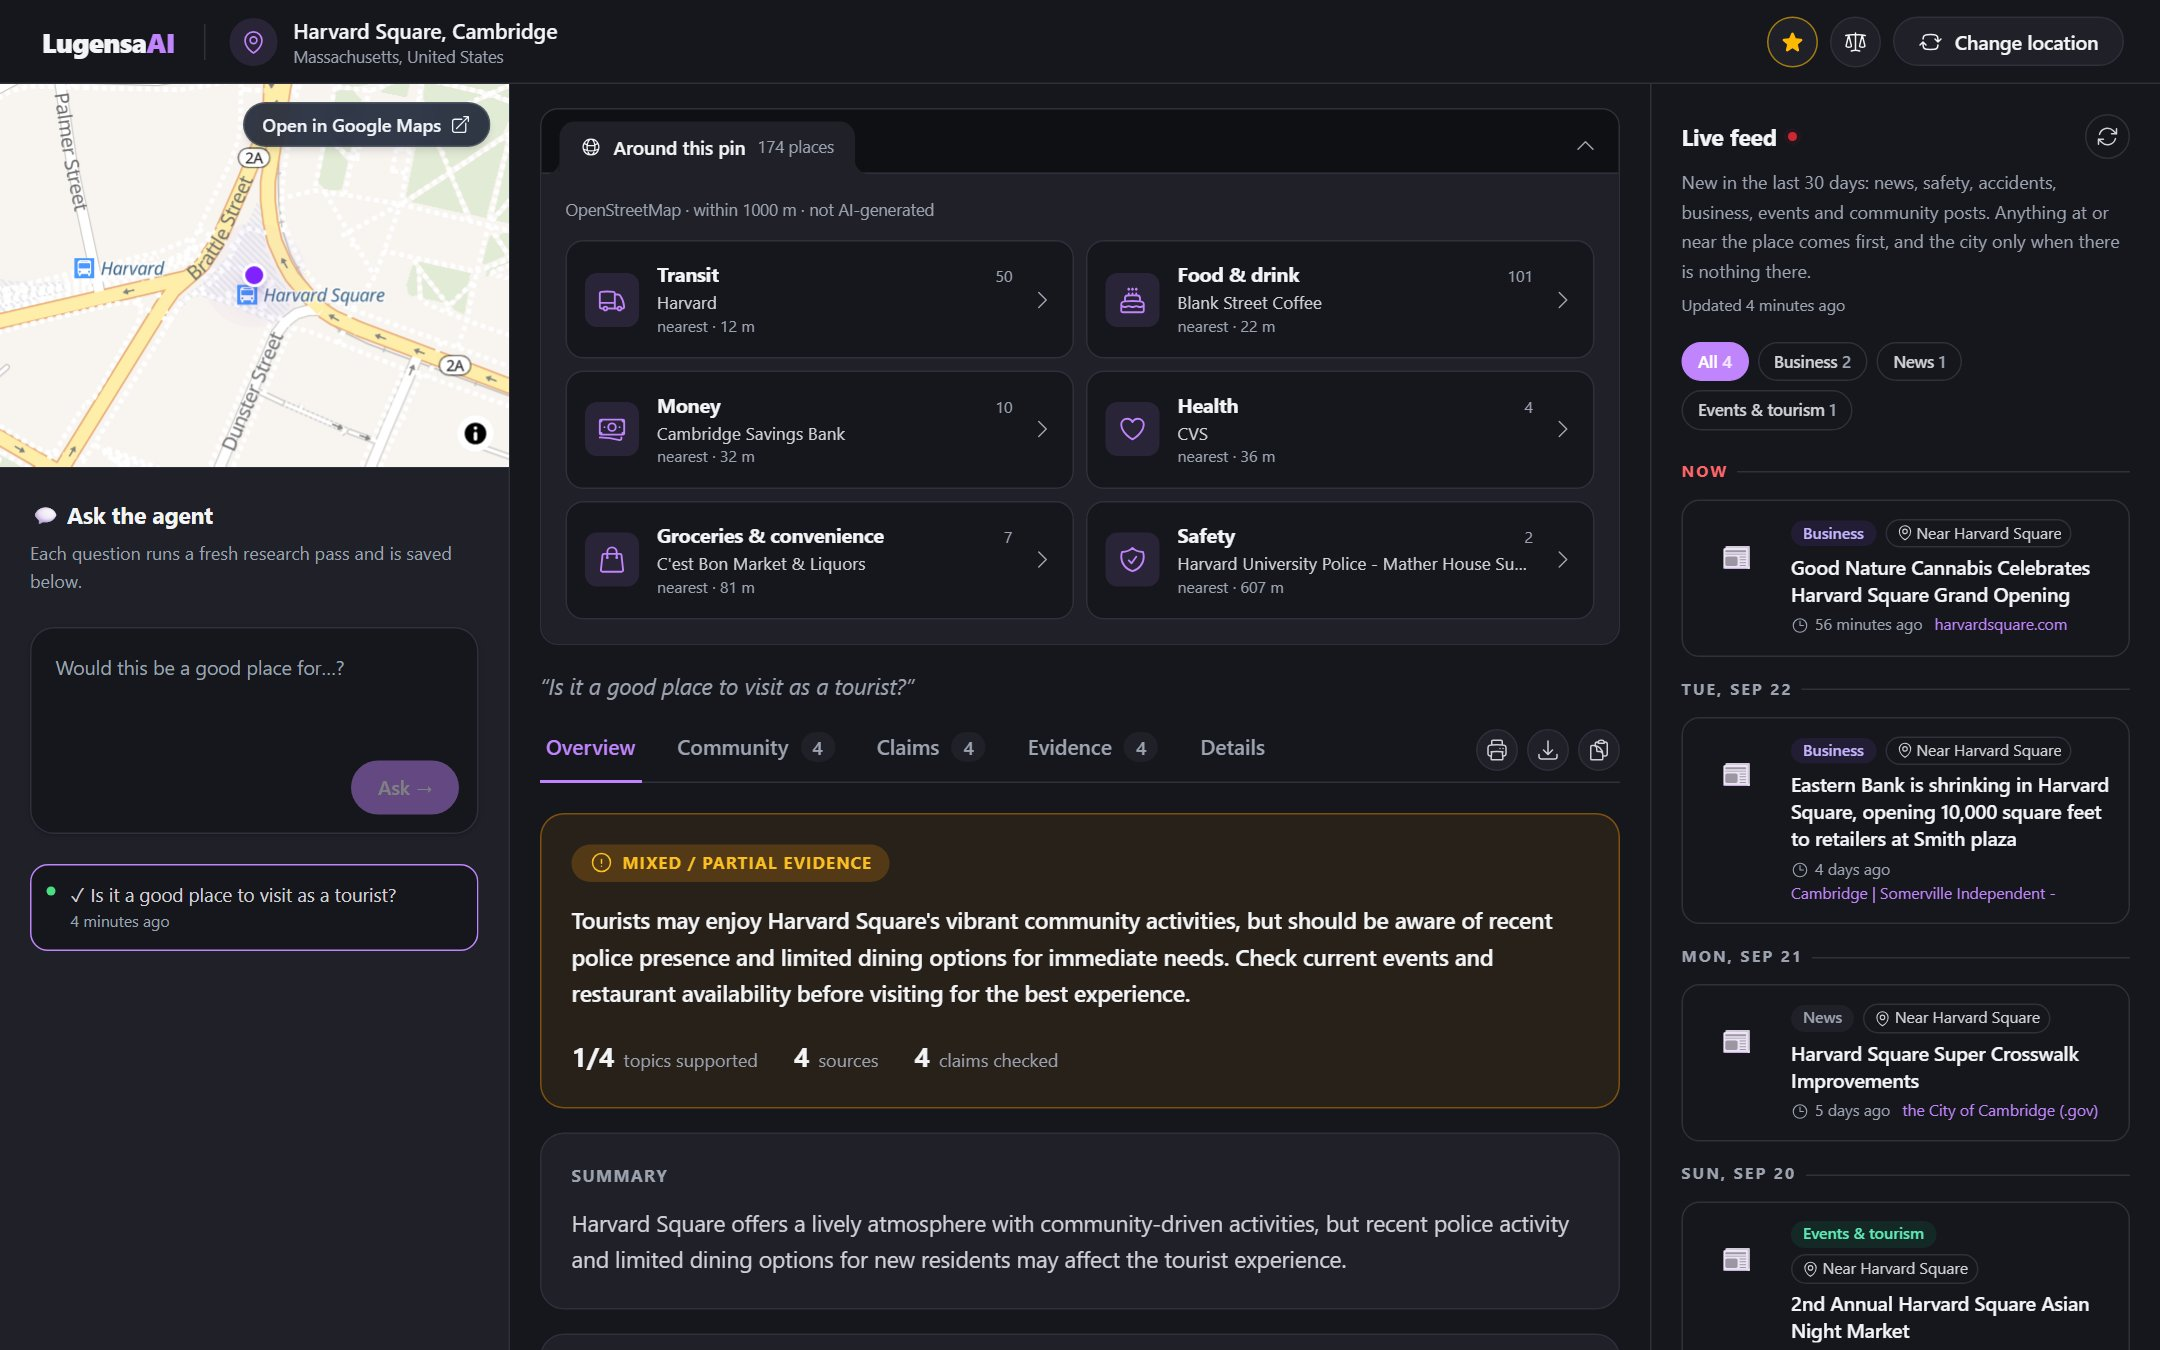
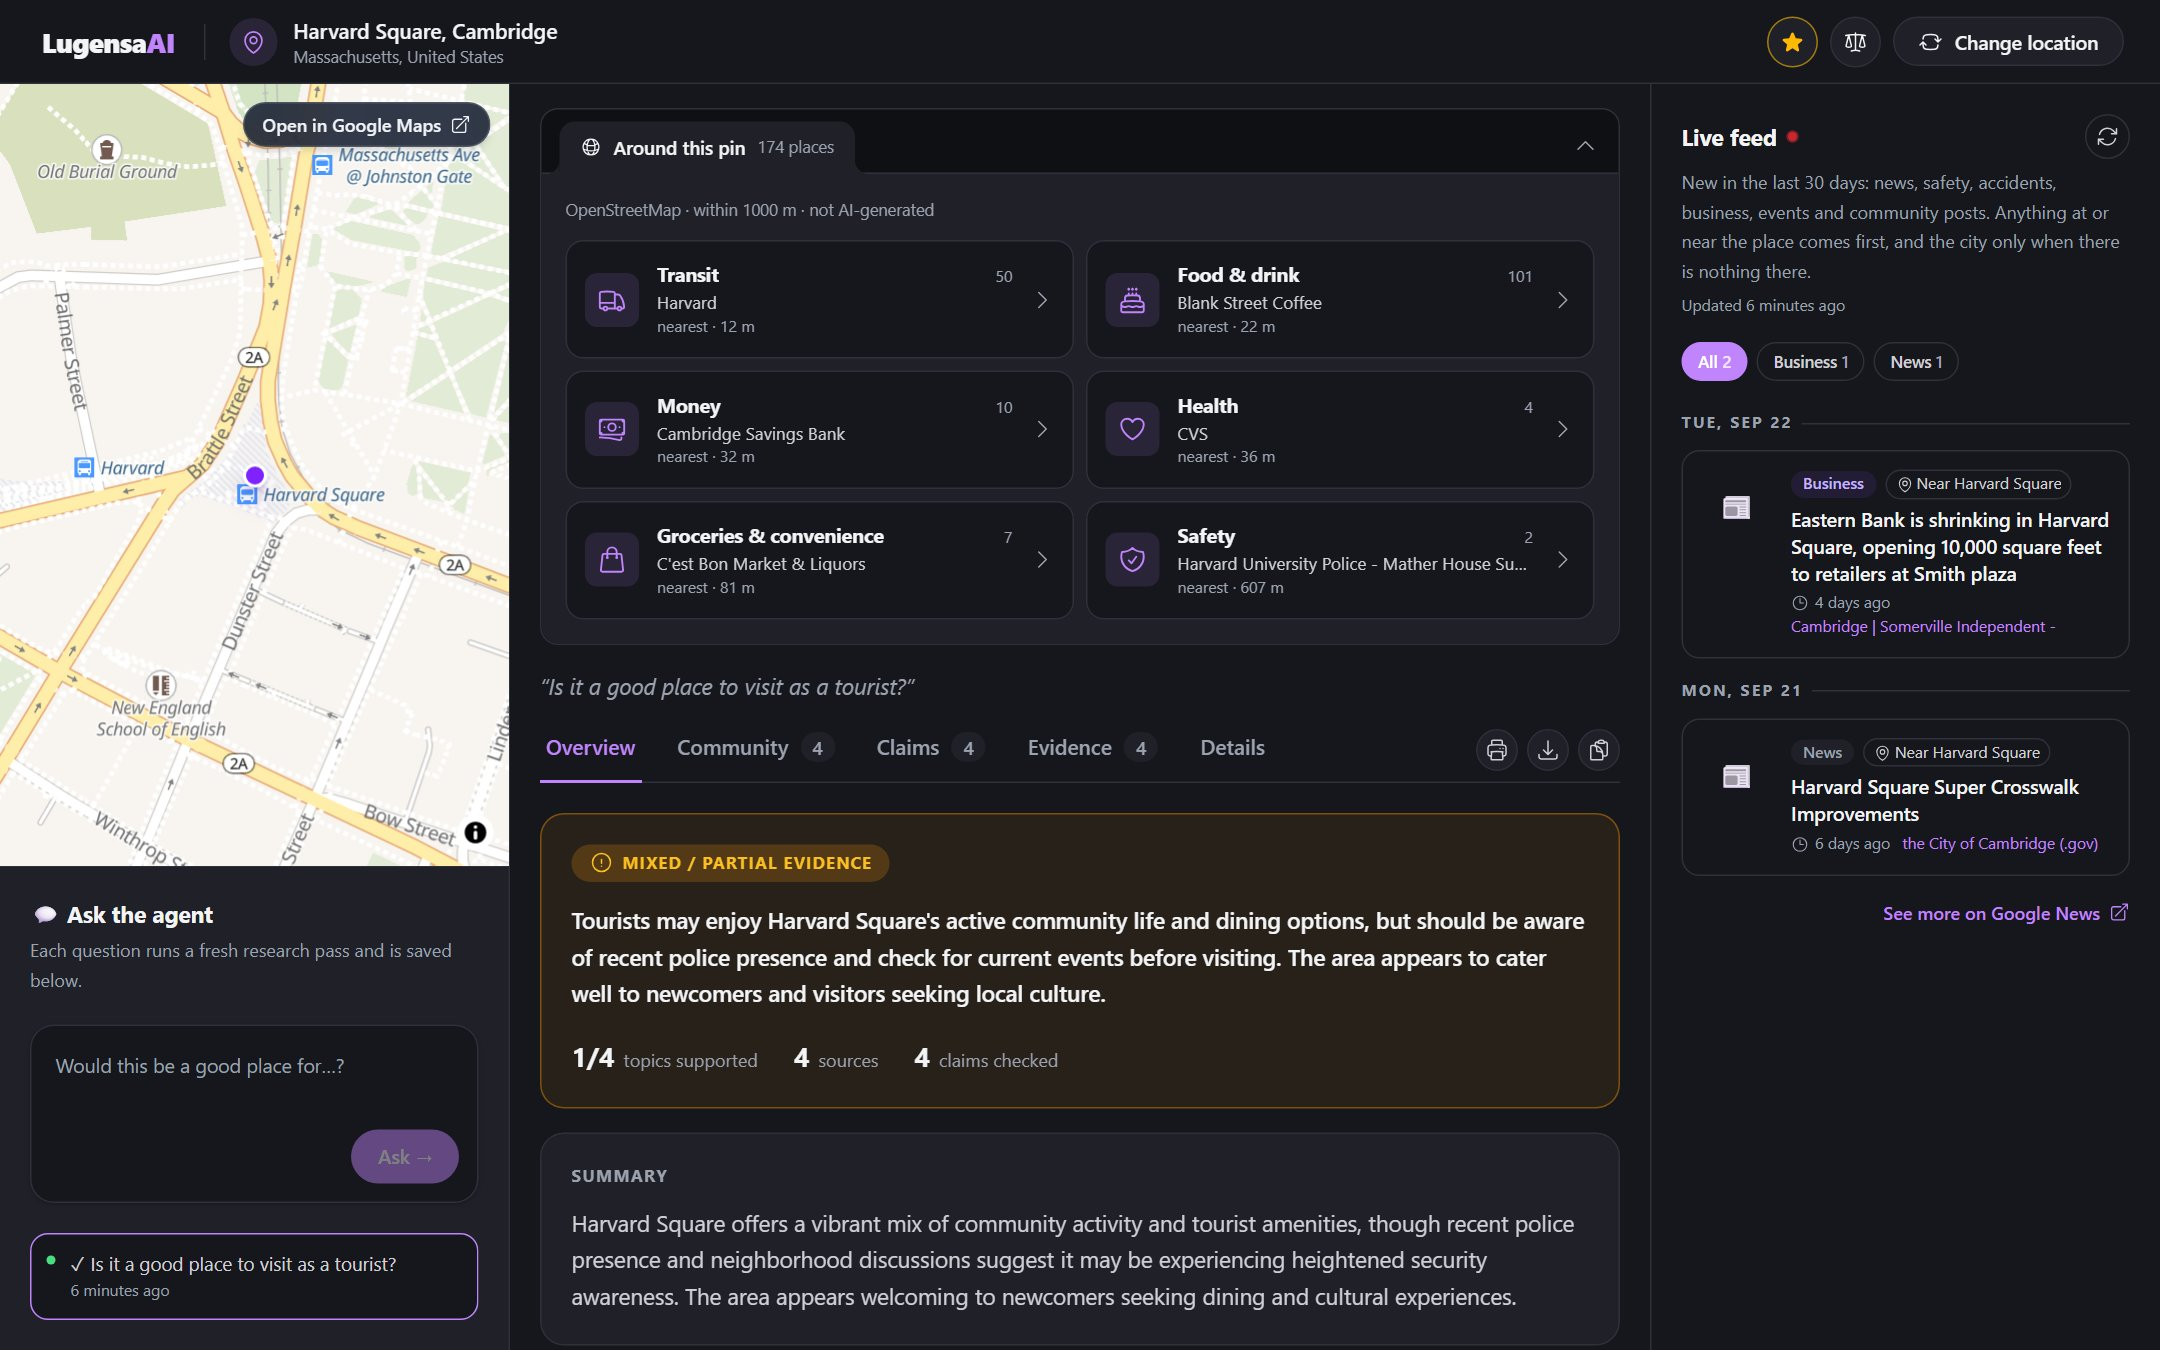
update: docs updated

diff --git a/frontend/e2e/polish.spec.ts b/frontend/e2e/polish.spec.ts
@@ -293,17 +293,45 @@ test.describe("flat pin map (plain function)", () => {
 });
 
 test.describe("left sidebar", () => {
-  test("leaves room below the last suggested question, even when the column has to scroll", async ({ page }) => {
-    await page.setViewportSize({ width: 1280, height: 620 }); // short, so the left column scrolls
+  /** The column (map, question box, suggestions) is as tall as the window and never scrolls as a whole; the last thing in it must be seen. */
+  async function expectFits(page: import("@playwright/test").Page, what: string) {
+    const column = page.locator("aside").first();
+    await expect(column.locator(".animate-pulse")).toHaveCount(0);
+    await expect
+      .poll(async () => column.evaluate((el) => el.scrollHeight - el.clientHeight), { message: `${what}: the column scrolls` })
+      .toBeLessThanOrEqual(1);
+  }
+
+  for (const [width, height] of [[1440, 900], [1280, 720], [1280, 600]]) {
+    test(`fits the window without scrolling at ${width}x${height}, with the last suggestion in view`, async ({ page }) => {
+      await page.setViewportSize({ width, height });
+      await mockBackend(page);
+      await openWorkspace(page);
+      await expectFits(page, "before any question");
+      const last = page.getByRole("button", { name: "Is it safe, and easy to get around?" });
+      await expect(last).toBeInViewport({ ratio: 1 });
+      const map = await page.locator("aside").first().locator("section").boundingBox();
+      expect(map!.height, "the map keeps a usable size").toBeGreaterThanOrEqual(180);
+    });
+  }
+
+  test("with many questions asked, only their own list scrolls: the column and the map keep their size", async ({ page }) => {
+    await page.setViewportSize({ width: 1280, height: 720 });
     await mockBackend(page);
     await openWorkspace(page);
+    for (let i = 1; i <= 6; i++) {
+      await page.getByPlaceholder("Would this be a good place for…?").fill(`Question number ${i}: is it a good place to visit?`);
+      await page.getByRole("button", { name: "Ask →" }).click();
+      await page.waitForFunction(() => window.__sse.started);
+      await finishRun(page, researchResult(`Q${i}`));
+      await expect(page.getByRole("button", { name: "Download report" })).toBeVisible();
+      await page.evaluate(() => { window.__sse.started = false; });
+    }
+    await expectFits(page, "six questions in");
     const column = page.locator("aside").first();
-    const last = page.getByRole("button", { name: "Is it safe, and easy to get around?" });
-    await last.scrollIntoViewIfNeeded();
-    await column.evaluate((el) => el.scrollTo(0, el.scrollHeight));
-    const columnBox = (await column.boundingBox())!;
-    const lastBox = (await last.boundingBox())!;
-    expect(columnBox.y + columnBox.height - (lastBox.y + lastBox.height), "space under the last suggestion").toBeGreaterThanOrEqual(16);
+    expect((await column.locator("section").boundingBox())!.height).toBeGreaterThanOrEqual(180);
+    const list = column.locator("div.overflow-y-auto");
+    expect(await list.evaluate((el) => el.scrollHeight > el.clientHeight), "the list of questions scrolls on its own").toBe(true);
   });
 });
 

diff --git a/frontend/src/components/ChatSidebar.tsx b/frontend/src/components/ChatSidebar.tsx
@@ -43,21 +43,23 @@ export function ChatSidebar({ sessions, activeSessionId, onAsk, onSelectSession,
   }
 
   return (
-    <div className="flex min-w-0 shrink-0 flex-col gap-5 p-5">
-      <div className="flex flex-col gap-1">
+    // On a desktop the column is as tall as the window and does not scroll: the map above takes what is left, and if the questions asked so
+    // far outgrow this part, only their own list scrolls. (`max-h`: this part never squeezes the map below 180px.)
+    <div className="flex min-w-0 shrink-0 flex-col gap-5 p-5 lg:min-h-0 lg:max-h-[calc(100%-180px)] [@media(max-height:760px)]:gap-3 [@media(max-height:760px)]:p-4">
+      <div className="flex shrink-0 flex-col gap-1">
         <h2 className="m-0 flex items-center gap-1.5 text-[15px] font-bold text-[var(--text-h)]">💬 Ask the agent</h2>
-        <p className="m-0 text-xs leading-relaxed text-[var(--text-muted)]">
+        <p className="m-0 text-xs leading-relaxed text-[var(--text-muted)] [@media(max-height:760px)]:hidden">
           Each question runs a fresh research pass and is saved below.
         </p>
       </div>
 
-      <form className="flex flex-col gap-2.5 rounded-2xl border border-[var(--border)] bg-[var(--bg)] p-3 shadow-sm" onSubmit={submit}>
+      <form className="flex shrink-0 flex-col gap-2.5 rounded-2xl border border-[var(--border)] bg-[var(--bg)] p-3 shadow-sm" onSubmit={submit}>
         <textarea
           className="w-full resize-none rounded-lg border-none bg-transparent p-1 text-[13px] text-[var(--text)] outline-none placeholder:text-[var(--text-muted)]"
           value={draft}
           onChange={(e) => setDraft(e.target.value)}
           placeholder="Would this be a good place for…?"
-          rows={3}
+          rows={2}
           onKeyDown={(e) => {
             if (e.key === "Enter" && !e.shiftKey) {
               submit(e);
@@ -74,7 +76,7 @@ export function ChatSidebar({ sessions, activeSessionId, onAsk, onSelectSession,
       </form>
 
       {sessions.length === 0 && (
-        <div className="flex flex-col gap-1.5">
+        <div className="flex shrink-0 flex-col gap-1.5">
           <span className="text-[11px] font-medium text-[var(--text-muted)]">Try asking:</span>
           {SUGGESTED_QUESTIONS.map((q) => (
             <button
@@ -90,7 +92,7 @@ export function ChatSidebar({ sessions, activeSessionId, onAsk, onSelectSession,
         </div>
       )}
 
-      <div className="flex flex-col gap-1.5 overflow-y-auto">
+      <div className="flex min-h-0 flex-col gap-1.5 overflow-y-auto">
         {sessions
             .slice()
             .reverse()

diff --git a/frontend/src/components/IconButton.tsx b/frontend/src/components/IconButton.tsx
@@ -4,8 +4,8 @@ import type { ReactNode } from "react";
 export const TOOLTIP_CLASS =
   "pointer-events-none absolute top-full right-0 z-30 mt-1.5 rounded-md bg-[var(--text-h)] px-2 py-1 text-[11px] font-medium whitespace-nowrap text-[var(--bg)] opacity-0 shadow-lg transition-opacity delay-100 group-focus-within:opacity-100 group-hover:opacity-100";
 
-/** The same tooltip, centred under its button instead of lined up with the button's right edge: for buttons that are not at the edge. */
-export const TOOLTIP_CENTERED_CLASS = TOOLTIP_CLASS.replace("right-0", "left-1/2 -translate-x-1/2");
+/** The same tooltip, centred under its button instead of lined up with the button's right edge: for buttons that are not at the edge. On a phone it stays lined up with the right edge: centred, a wide label would stick out past the screen and make the page scroll sideways. */
+export const TOOLTIP_CENTERED_CLASS = TOOLTIP_CLASS.replace("right-0", "right-0 sm:right-auto sm:left-1/2 sm:-translate-x-1/2");
 
 /** A round icon-only button whose name appears in a tooltip on hover or keyboard focus. The name is also the accessible label, so
  * a screen reader announces it, and the tooltip itself is hidden from it (it would only say the same thing twice). */

diff --git a/frontend/src/components/MapPanel.tsx b/frontend/src/components/MapPanel.tsx
@@ -78,7 +78,11 @@ export default function MapPanel({ location }: { location: ActiveLocation }) {
     map.getCanvas().style.cursor = "pointer";
     markerRef.current = new Marker({ element: createPin() }).setLngLat([longitude, latitude]).addTo(map);
     mapRef.current = map;
+    // The map's box changes size with the window and with the question box below it: keep the map drawn to fit.
+    const watcher = new ResizeObserver(() => map.resize());
+    watcher.observe(container.current);
     return () => {
+      watcher.disconnect();
       map.remove();
       mapRef.current = null;
       markerRef.current = null;
@@ -93,7 +97,7 @@ export default function MapPanel({ location }: { location: ActiveLocation }) {
 
   return (
     <section
-      className="group relative h-64 w-full flex-shrink-0 overflow-hidden border-b border-[var(--border)] bg-[var(--bg-alt)]"
+      className="group relative h-64 w-full flex-shrink-0 overflow-hidden lg:h-auto lg:min-h-[180px] lg:flex-1 border-b border-[var(--border)] bg-[var(--bg-alt)]"
       aria-label={`Map of ${location.displayName}`}
     >
       {hasCoords && !failed ? (

diff --git a/frontend/e2e/mobile.spec.ts b/frontend/e2e/mobile.spec.ts
@@ -8,6 +8,18 @@ async function expectNoSidewaysScroll(page: Page, screen: string) {
   expect(scrollWidth, `${screen} is ${scrollWidth}px wide on a ${innerWidth}px screen`).toBeLessThanOrEqual(innerWidth + 1);
 }
 
+// CI runs on Linux, whose default font is wider than Windows' or macOS's, and a label that just fits in one can overflow in the other
+// (a tooltip once made the page 7px too wide there and only there). So every test here uses a wide font.
+test.beforeEach(async ({ page }) => {
+  await page.addInitScript(() => {
+    document.addEventListener("DOMContentLoaded", () => {
+      const style = document.createElement("style");
+      style.textContent = '*{font-family:Verdana,"DejaVu Sans",sans-serif !important}';
+      document.head.appendChild(style);
+    });
+  });
+});
+
 for (const width of [320, 375, 768]) {
   test(`no screen scrolls sideways at ${width}px`, async ({ page }) => {
     await page.setViewportSize({ width, height: 844 });

diff --git a/frontend/src/pages/ResearchWorkspace.tsx b/frontend/src/pages/ResearchWorkspace.tsx
@@ -191,8 +191,8 @@ export function ResearchWorkspace() {
           />
           <div className="grid min-h-0 flex-1 grid-cols-1 lg:grid-cols-[264px_minmax(0,1fr)_288px] xl:grid-cols-[340px_minmax(0,1fr)_340px]">
             {/* Left: the pin on a zoomed-in map, and where you ask. */}
-            <aside className="flex min-h-0 flex-col border-b border-[var(--border)] bg-[var(--bg-alt)] lg:overflow-y-auto lg:border-r lg:border-b-0">
-              <Suspense fallback={<div className="h-64 w-full animate-pulse bg-[var(--bg)]" />}>
+            <aside className="flex min-h-0 flex-col border-b border-[var(--border)] bg-[var(--bg-alt)] lg:overflow-hidden lg:border-r lg:border-b-0">
+              <Suspense fallback={<div className="h-64 w-full animate-pulse bg-[var(--bg)] lg:h-auto lg:min-h-[180px] lg:flex-1" />}>
                 <MapPanel location={location} />
               </Suspense>
               <ChatSidebar

diff --git a/docs/architecture.md b/docs/architecture.md
@@ -759,3 +759,18 @@ All eight milestones from the original project plan are implemented, plus later 
   good place to visit as a tourist?", free mode with no search or Google key, so no credit spent) so they show the current top bar, agent
   panel and live feed. The answer is a thin, honest one for the same reason as before (no web search: mixed/partial evidence, 1 of 4
   topics supported); the model wait is time-lapsed 30 times in the GIF (4.2 MB).
+  *CI catch:* the first push with the centred tooltips failed the UI tests on GitHub's Linux runner and passed here on Windows. Linux's
+  default sans font is wider than Windows', and the invisible "Compare with another place" tooltip, now centred, stuck out 7 px past the
+  right edge of a phone screen and made the page scroll sideways (327 px on a 320 px screen; 382 on 375). Fixed by centring the tooltip only
+  from the `sm` breakpoint up. The mobile tests now run in a wide font, so the same mistake fails on any machine (checked: they fail
+  against the old tooltip). One more test was flaky in CI, not broken: the left-sidebar test measured before the lazily loaded map had taken
+  its final height; it now waits for the map and measures until steady.
+- **Milestone 44:** *The left column (map, question box, suggestions) is now fixed to the window.* It used to scroll as a whole when the window
+  was short, which pushed the suggestions out of sight. On a desktop it is now exactly as tall as the window and never scrolls: the map
+  takes the space the rest leaves (never under 180 px; the map redraws itself to fit, via a `ResizeObserver`), the question box keeps its
+  size, and on short windows (under 760 px tall) the one-line explanation goes and the spacing tightens so everything still fits. Once
+  questions have been asked, only their own list scrolls. Phones keep the old stacked layout. Tests: the column has no scroll at 1440x900,
+  1280x720 and 1280x600 with the last suggestion fully in view and the map at least 180 px; with six questions asked only the list scrolls.
+  `workspace.jpg` and `demo.gif` were re-taken from a new real run (free mode, no credit spent) to show it. That run needed a longer
+  wait for the first step: the first request after the backend starts imports the search-model libraries, which took about 40 s on a busy
+  machine (the app already says so on screen). Tests: 563 backend, 60 frontend (36 in a browser, 24 plain unit).

diff --git a/README.md b/README.md
@@ -628,7 +628,7 @@ cd backend
 pytest          # 563 tests
 cd ../frontend
 npm run lint && npx tsc -b && npm run build
-npm run test:e2e   # 57 tests: 33 in a browser, 24 plain unit tests (PW_CHANNEL=msedge uses an installed browser; otherwise `npx playwright install chromium`)
+npm run test:e2e   # 60 tests: 36 in a browser, 24 plain unit tests (PW_CHANNEL=msedge uses an installed browser; otherwise `npx playwright install chromium`)
 ```
 
 The backend suite is free, offline, and deterministic by construction (its invented sample sources live
